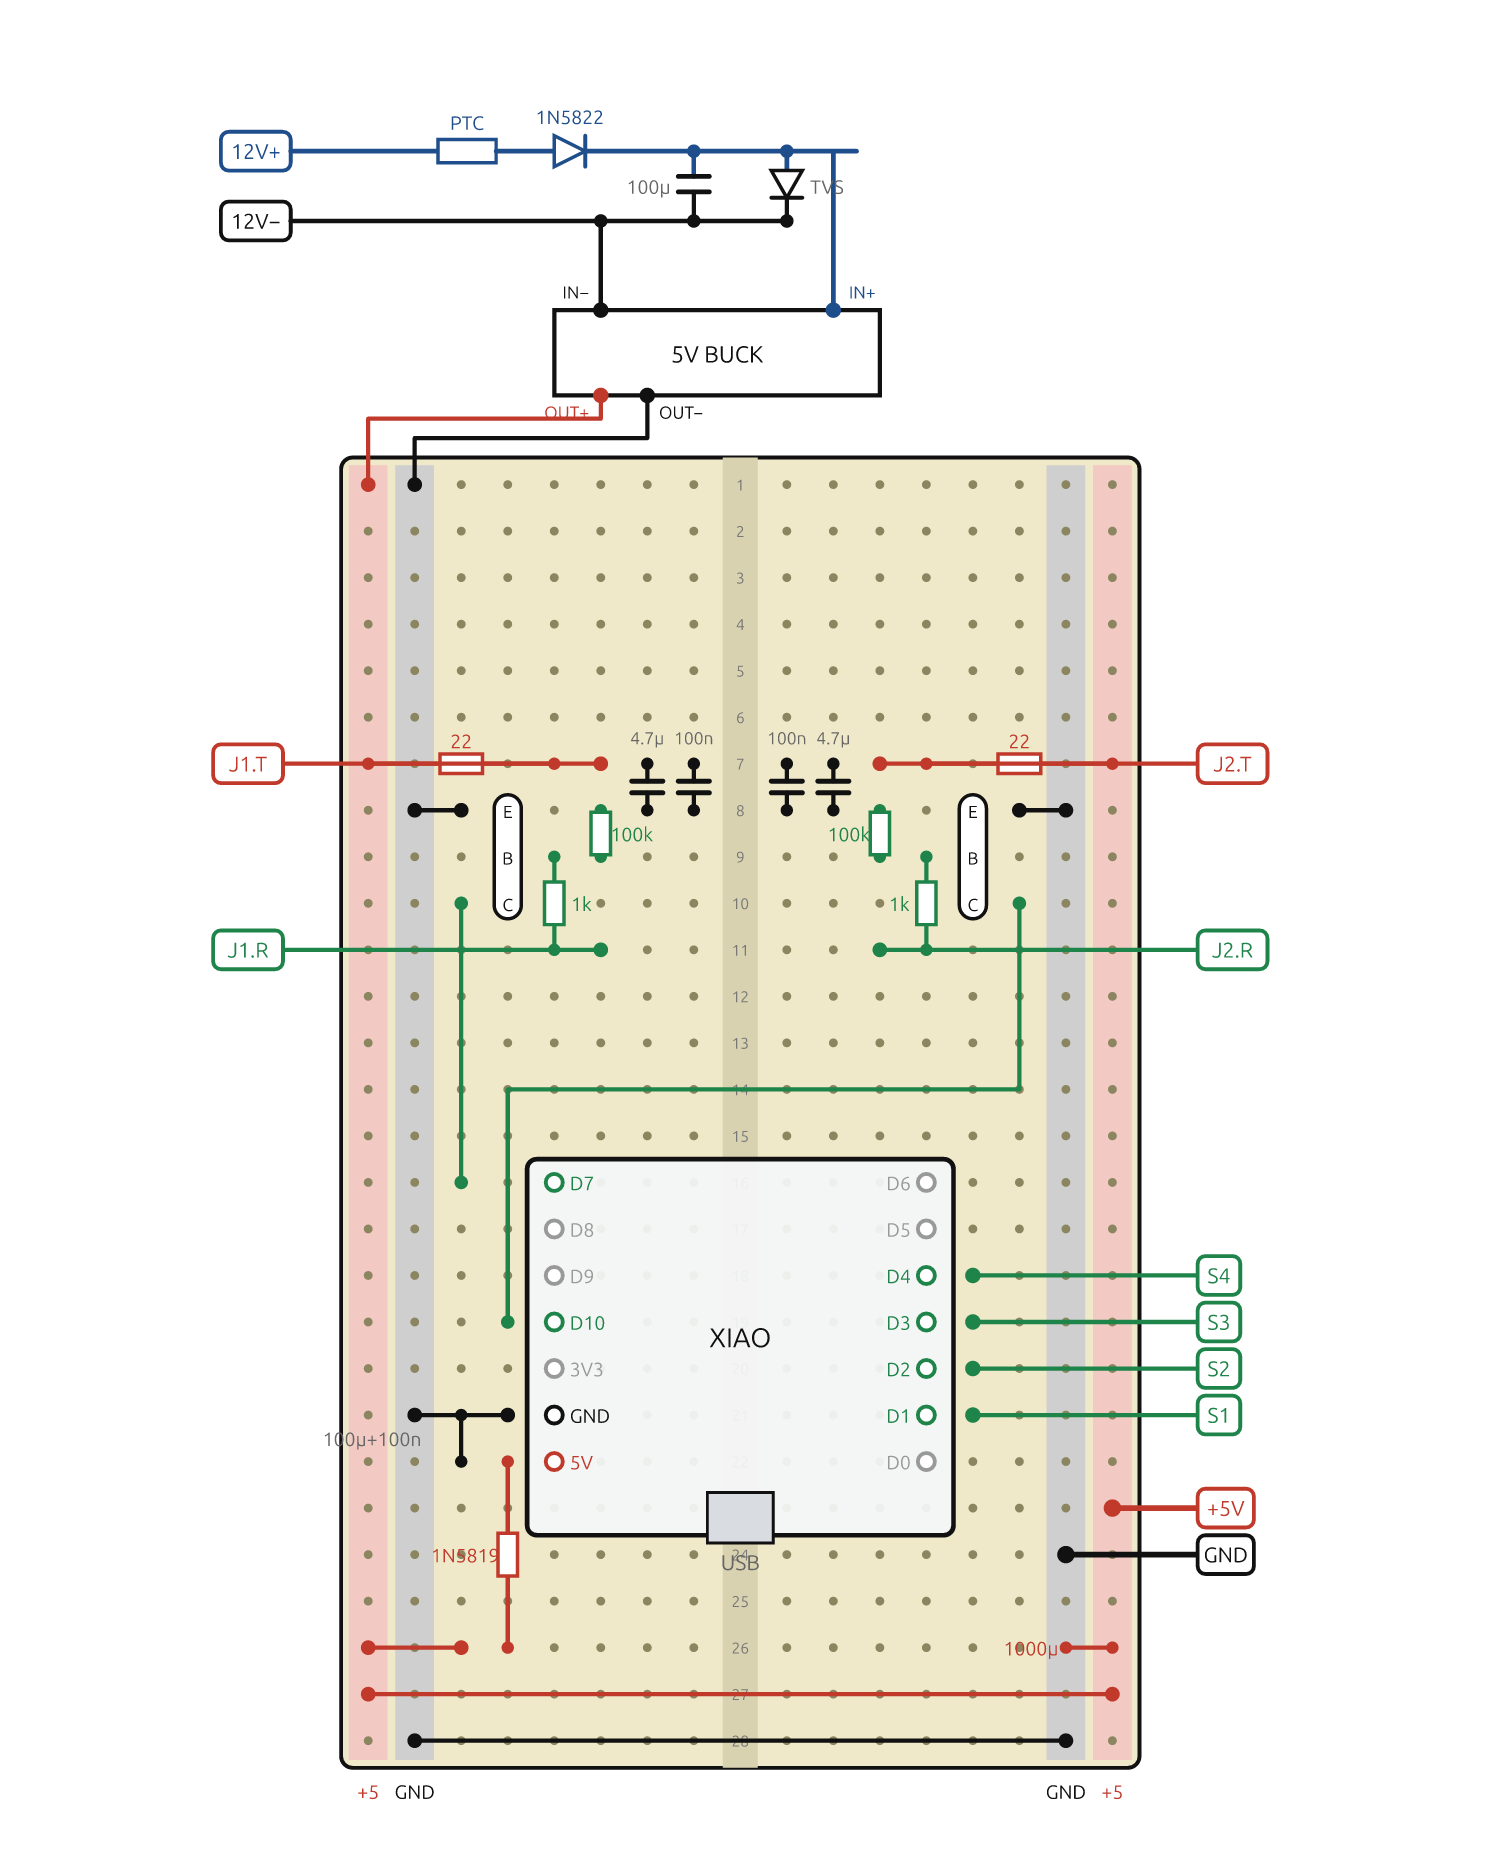
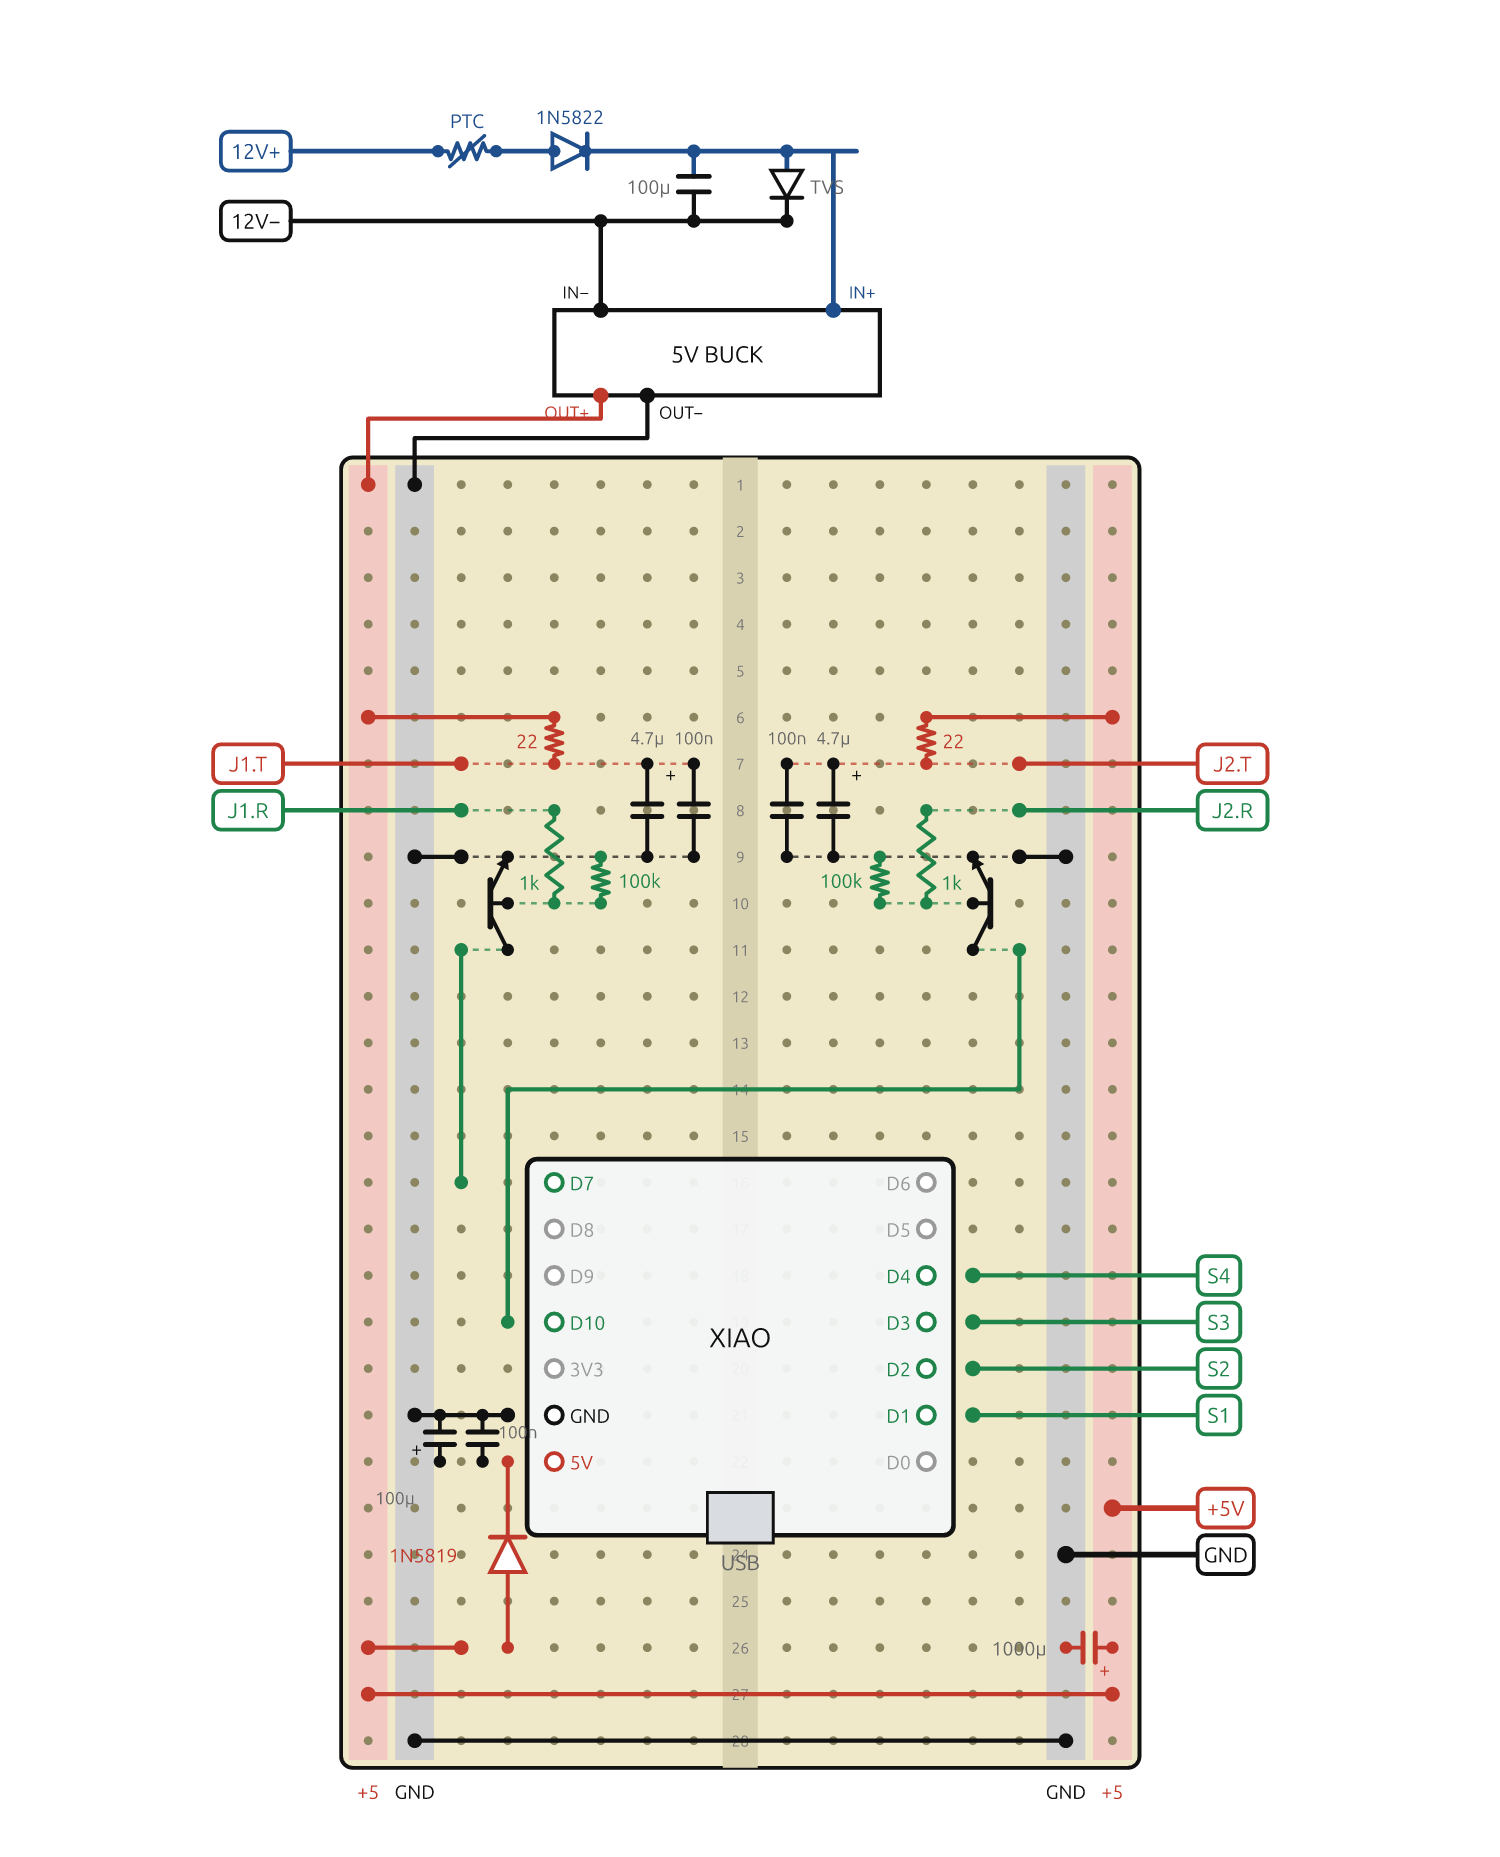
docs: symbols instead of rectangles, sensor blocks rerouted so same-colour wires do not cross

diff --git a/docs/08-servo-board.md b/docs/08-servo-board.md
@@ -220,24 +220,26 @@ it on the buck's own bit of board or wire it point to point. Nothing from this c
 
 Bridge the rails with wire, not just the strips: four stalled servos draw about 1.9 A.
 
-**Sensor circuits (two mirror-image blocks, rows 7–11).** The left block serves sensor 1 and goes to **D7**; the
+**Sensor circuits (two mirror-image blocks, rows 6–11).** The left block serves sensor 1 and goes to **D7**; the
 right block serves sensor 2 and goes to **D10**. Columns are counted from the block's own rail: "k1" is the hole
-next to the rail, k6 the hole nearest the channel. The rail is the inner (GND) and outer (+5 V) pair on that side.
-Rows are relative to the top of the block: **7 tip, 8 GND, 9 base, 10 collector, 11 ring.**
+next to the rail, k6 the hole nearest the channel. Rows: **6 feed, 7 tip, 8 ring, 9 GND, 10 base, 11 collector.**
+The dashed lines in the drawing are the copper strips that join holes in a row, not wires. Nothing of the same
+colour crosses: the collector wire leaves downward from row 11, below the ring wire.
 
 | Part | From | To |
 |---|---|---|
-| 22 Ω | outer rail, row 7 | row 7, k3 |
-| 4.7 µF (+ to row 7) | row 7, k5 | row 8, k5 |
-| 100 nF | row 7, k6 | row 8, k6 |
-| GND jumper | inner rail, row 8 | row 8, k1 |
-| 2N3904, flat face toward the channel, standing in k2 | emitter row 8, base row 9, collector row 10 | |
-| 100 kΩ | row 8, k4 | row 9, k4 |
-| 1 kΩ (lies along the column, 0.3") | row 9, k3 | row 11, k3 |
-| Tag `J1.T` / `J2.T` | row 7, k4 | |
-| Tag `J1.R` / `J2.R` | row 11, k4 | |
-| Collector wire, left block (insulated, down the k1 column) | row 10, k1 | left row 16, col 1 (beside **D7**) |
-| Collector wire, right block (insulated) | row 10, k1 (right col 12) down to row 14, left along row 14 to left col 2, down to row 19 | left row 19, col 2 (beside **D10**) |
+| +5 V feed wire | outer rail, row 6 | row 6, k3 |
+| 22 Ω (stands vertically) | row 6, k3 | row 7, k3 |
+| 4.7 µF (+ to row 7) | row 7, k5 | row 9, k5 |
+| 100 nF | row 7, k6 | row 9, k6 |
+| GND jumper | inner rail, row 9 | row 9, k1 |
+| 2N3904 standing in k2 | emitter row 9, base row 10, collector row 11 | |
+| 1 kΩ (lies along the column, 0.2") | row 8, k3 | row 10, k3 |
+| 100 kΩ (stands vertically) | row 9, k4 | row 10, k4 |
+| Tag `J1.T` / `J2.T` | row 7, k1 | |
+| Tag `J1.R` / `J2.R` | row 8, k1 | |
+| Collector wire, left block (insulated, down column 1) | row 11, col 1 | left row 16, col 1 (beside **D7**) |
+| Collector wire, right block (insulated) | row 11, col 12, down to row 14, left along row 14 to left col 2, down to row 19 | left row 19, col 2 (beside **D10**) |
 
 The sleeve of each jack has no wire on this board: it goes to GND on the connector board.
 
